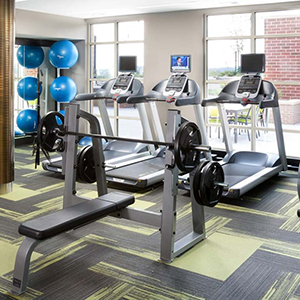
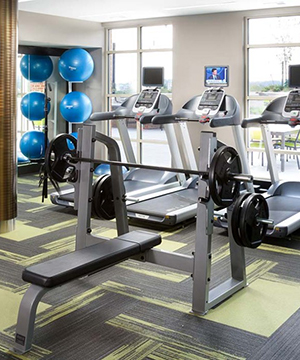
final

diff --git a/index.html b/index.html
@@ -1,5 +1,4 @@
 <!DOCTYPE html PUBLIC "-//W3C//DTD HTML 4.01 Transitional//EN" "http://www.w3.org/TR/html4/loose.dtd">
-<!-- saved from url=(0049)http://swiftpetworth.com/email/2br-sept-2016.html -->
 <html><head><meta http-equiv="Content-Type" content="text/html; charset=UTF-8">
 
 <title>Swift Petworth - email</title>
@@ -11,19 +10,17 @@
     <tbody>
     <tr> <!-- header -->
       <td align="left" valign="top">
-        <table width="600" border="0" cellspacing="0" cellpadding="0">
+        <table width="600" height="190" border="0" cellspacing="0" cellpadding="0">
           <tbody>
             <tr>
-              <td width="480" align="left" valign="bottom" bgcolor="#000000" style="margin:0; padding:0;">
-                <h1 style="font-family:Arial, Helvetica, sans-serif; color:#ffffff; margin:0; padding:0">Upgrade Your Lifestyle</h1><br>
-
-                <h2 style="font-family:Arial, Helvetica, sans-serif; color:#C5E86C; margin:0; padding:0">Stellar Amenities • Perfect Location</h2><br>
-
-                <h2 style="font-family:Arial, Helvetica, sans-serif; color:#C5E86C; margin:0; padding:0">Our Apartments are Leasing Swiftly</h2>
+              <td width="480" align="left" valign="bottom" bgcolor="#000000" style="margin:0; padding:20px;">
+                <font style="font-family:Arial, Helvetica, sans-serif; font-size:20px; color:#ffffff;"><h1 style="padding:0 0 0 0; margin:0 0 0 0;">Upgrade Your Lifestyle</h1></font><br>
+                <font style="font-family:Arial, Helvetica, sans-serif; font-size:20px; color:#C5E86C; padding:0 0 0 0; margin:0 0 0 0;">Stellar Amenities • Perfect Location</font><br>
+                <font style="font-family:Arial, Helvetica, sans-serif; font-size:20px; color:#C5E86C; padding-bottom:20px; margin:;">Our Apartments are Leasing Swiftly</font>
               </td> <!-- words -->
 
-              <td width="100" height="50" align="right" valign="top" style="padding:10px;">
-                <img src="logo.png" width="100" alt="" border="0">
+              <td width="100" height="190" align="right" valign="top" style="padding:10px;">
+                <a href="http://swiftpetworth.com/?utm_source=Prospect_List&amp;utm_medium=email&amp;utm_campaign=two_bedroom_$2900" target="_blank"><img src="logo.png" width="100" height="190" alt="" border="0"></a>
               </td> <!-- logo -->
 
             </tr>
@@ -31,13 +28,12 @@
         </table>
       </td>
     </tr> <!-- header -->
-
     <tr> <!-- 1st section-->
-        <td valign="top" width="600">
+        <td valign="top" width="600" height="360">
           <table align="right" border="0" cellpadding="0" cellspacing="0" width="300">
             <tr>
               <td align="left" valign="top">
-                <img src="kitchen.jpg" width="300" style="width:300px; height:320px;"/>
+                <img src="kitchen.jpg" width="300" style="width:300px; height:360px;"/>
               </td>
             </tr>
           </table>
@@ -45,12 +41,12 @@
           <!-- CONTENT TABLE // -->
           <table align="left" border="0" cellpadding="0" cellspacing="0" width="300">
             <tr>
-              <td valign="top" width="300">
+              <td valign="top" width="300" style="line-height: 120%;">
                 <h3 style="Margin:1em 1em 0; line-height: 120%;">Limited Time Offer on Select Apartments! Hurry, They Won’t Last Long</h3>
                 <ul style="font-size: 14px; font-family:Arial, Helvetica, sans-serif; Margin:.5em 1em 0; padding:0; color:#4D4D4D;">
-                    <li style="Margin:0 0 .5em; list-style:disc inside; mso-special-format:bullet;"><strong>Unit 423:</strong> Spacious 2 Bedroom, 2 Bath apartment with private balconies overlooking an inner courtyard. <strong>SPECIAL PRICE $2,775</strong></li>
-                    <li style="Margin:0 0 .5em; list-style:disc inside; mso-special-format:bullet;"><strong>Unit 407:</strong> Large Corner 2 Bedroom, 2 Bath apartment with floor to ceiling windows. <strong>LOW PRICE GUARANTEED $2,875</strong></li>
-                    <li style="Margin:0 0 .5em; list-style:disc inside; mso-special-format:bullet;"><strong>Unit 332:</strong> Spacious Corner 2 Bedroom 2 Bath apartment with amazing views of the city. <strong>LOWEST COST OF THE YEAR $2,925</strong></li>
+                    <li style="Margin:0; list-style:disc inside; mso-special-format:bullet;"><strong>Unit 423:</strong> Spacious 2 Bedroom, 2 Bath apartment with private balconies overlooking an inner courtyard. <strong>SPECIAL PRICE $2,775</strong></li>
+                    <li style="Margin:0; list-style:disc inside; mso-special-format:bullet;"><strong>Unit 407:</strong> Large Corner 2 Bedroom, 2 Bath apartment with floor to ceiling windows. <strong>LOW PRICE GUARANTEED $2,875</strong></li>
+                    <li style="Margin:0; list-style:disc inside; mso-special-format:bullet;"><strong>Unit 332:</strong> Spacious Corner 2 Bedroom 2 Bath apartment with amazing views of the city. <strong>LOWEST COST OF THE YEAR $2,925</strong></li>
                 </ul>
               </td>
             </tr>
@@ -67,7 +63,7 @@
                 <h3 style="Margin:0; padding-right:10px;">Don’t Miss Out On These Great Specials!</h3>
               </td>
               <td align="left" valign="top" width="425" style="font-size: 16px;">
-                The offers don’t stop there. We have more great offers if you move in during the month of October! <strong>Call <a href="tel:2028035047" style="text-decoration: none; color:#000000">202.803.5047</a> to learn more or <a href="http://swiftpetworth.com/contact/" style="color:#000000;">Schedule a Tour</a>. Ready to move, <a href="https://swiftpetworth.securecafe.com/onlineleasing/the-swift-at-petworth-metro/floorplans.aspx" style="color:#000000">apply now</a>!</strong>
+                The offers don’t stop there. We have more great offers if you move in during the month of October! <strong>Call <a href="tel:2028035047" target="_blank" style="text-decoration: none; color:#000000">202.803.5047</a> to learn more or <a href="http://swiftpetworth.com/contact/" target="_blank" style="color:#000000;">Schedule a Tour</a>. Ready to move, <a href="https://swiftpetworth.securecafe.com/onlineleasing/the-swift-at-petworth-metro/floorplans.aspx" target="_blank" style="color:#000000">apply now</a>!</strong>
               </td>
             </tr>
           </tbody>
@@ -76,26 +72,27 @@
     </tr> <!-- sub-header-message -->
 
     <tr> <!-- 2nd section-->
-        <td valign="top" width="600">
+        <td valign="top" width="600" height="360">
           <table align="left" border="0" cellpadding="0" cellspacing="0" width="300">
             <tr>
               <td align="left" valign="top">
-                <img src="gym.jpg" width="300" style="width:300px;height:300px;"/>
+                <img src="gym.jpg" width="300" style="width:300px;height:360px;"/>
               </td>
             </tr>
           </table>
           <table align="right" border="0" cellpadding="0" cellspacing="0" width="300">
             <tr>
-              <td valign="top" width="300">
+              <td valign="top" width="300" style="line-height: 120%;">
                 <h3 style="Margin:1em 1em 0; line-height: 120%;">Top Amenities</h3>
                 <ul style="font-size: 14px; font-family:Arial, Helvetica, sans-serif; Margin:.5em 1em 0; padding:0; color:#4D4D4D;">
-                    <li style="Margin:0 0 .5em; list-style:disc inside; mso-special-format:bullet;">Rooftop terrace with pool table, plenty of seating for gatherings, grilling stations, and firepit</li>
-                    <li style="Margin:0 0 .5em; list-style:disc inside; mso-special-format:bullet;">Electric car-charging stations, Zipcar® Parking, and Capital Bikeshare™</li>
-                    <li style="Margin:0 0 .5em; list-style:disc inside; mso-special-format:bullet;">Resident-controlled parking garage with bike racks</li>
-                    <li style="Margin:0 0 .5em; list-style:disc inside; mso-special-format:bullet;">Pet-friendly </li>
-                    <li style="Margin:0 0 .5em; list-style:disc inside; mso-special-format:bullet;">Fully-equipped gym with free weights</li>
-                    <li style="Margin:0 0 .5em; list-style:disc inside; mso-special-format:bullet;">Clubroom with demo kitchen, fireplace, pool table, foosball, and wi-fi</li>
-                    <li style="Margin:0 0 .5em; list-style:disc inside; mso-special-format:bullet;">Panoramic views of Washington, D.C.</li>
+                    <li style="Margin:0; list-style:disc inside; mso-special-format:bullet;">Rooftop terrace with pool table, plenty of seating for gatherings, grilling stations, and firepit</li>
+                    <li style="Margin:0; list-style:disc inside; mso-special-format:bullet;">24-hour on-site concierge service</li>
+                    <li style="Margin:0; list-style:disc inside; mso-special-format:bullet;">Electric car-charging stations, Zipcar<sup>®</sup> Parking, and Capital Bikeshare™</li>
+                    <li style="Margin:0; list-style:disc inside; mso-special-format:bullet;">Resident-controlled parking garage with bike racks</li>
+                    <li style="Margin:0; list-style:disc inside; mso-special-format:bullet;">Pet-friendly </li>
+                    <li style="Margin:0; list-style:disc inside; mso-special-format:bullet;">Fully-equipped gym with free weights</li>
+                    <li style="Margin:0; list-style:disc inside; mso-special-format:bullet;">Clubroom with demo kitchen, fireplace, pool table, foosball, and wi-fi</li>
+                    <li style="Margin:0; list-style:disc inside; mso-special-format:bullet;">Panoramic views of Washington, D.C.</li>
                 </ul>
               </td>
             </tr>
@@ -104,23 +101,23 @@
     </tr> <!-- 2nd section-->
 
     <tr> <!-- 3rd section-->
-        <td valign="top" width="600">
+        <td valign="top" width="600" height="360">
           <table align="right" border="0" cellpadding="0" cellspacing="0" width="300">
             <tr>
               <td align="left" valign="top">
-                <img src="fireplace.jpg" width="300" style="width:300px;height:300px;"/>
+                <img src="fireplace.jpg" width="300" style="width:300px;height:360px;"/>
               </td>
             </tr>
           </table>
           <table align="left" border="0" cellpadding="0" cellspacing="0" width="300">
             <tr>
-              <td valign="top" width="300">
+              <td valign="top" width="300" style="line-height: 120%;">
                 <h3 style="Margin:1em 1em 0; line-height: 120%;">It's the Place To Be</h3>
                 <ul style="font-size: 14px; font-family:Arial, Helvetica, sans-serif; Margin:.5em 1em 0; padding:0; color:#4D4D4D;">
-                    <li style="Margin:0 0 .5em; list-style:disc inside; mso-special-format:bullet;">Less than one block away from Georgia Ave-Petworth Metro station</li>
-                    <li style="Margin:0 0 .5em; list-style:disc inside; mso-special-format:bullet;">Moments from your doorstep, a zero carbon Safeway with Starbucks, expanded food bars, and large beer selection</li>
-                    <li style="Margin:0 0 .5em; list-style:disc inside; mso-special-format:bullet;">Nearby you will enjoy delicious dining and nightlife that includes Homestead, Qualia Coffee, and Room 11</li>
-                    <li style="Margin:0 0 .5em; list-style:disc inside; mso-special-format:bullet;">Enjoy a vibrant neighborhood with plenty of culture, restaurants, beautifully landscaped streets, and amazing views of downtown D.C. </li>
+                    <li style="Margin:0; list-style:disc inside; mso-special-format:bullet;">Less than one block away from Georgia Ave-Petworth Metro station</li>
+                    <li style="Margin:0; list-style:disc inside; mso-special-format:bullet;">Moments from your doorstep, a zero carbon Safeway with Starbucks, expanded food bars, and large beer selection</li>
+                    <li style="Margin:0; list-style:disc inside; mso-special-format:bullet;">Nearby you will enjoy delicious dining and nightlife that includes Homestead, Qualia Coffee, and Room 11</li>
+                    <li style="Margin:0; list-style:disc inside; mso-special-format:bullet;">Enjoy a vibrant neighborhood with plenty of culture, restaurants, beautifully landscaped streets, and amazing views of downtown D.C. </li>
                 </ul>
               </td>
             </tr>
@@ -132,7 +129,7 @@
       <td style="padding:15px 0;" align="center" valign="top" bgcolor="#000000"><table width="540" border="0" cellspacing="0" cellpadding="0">
           <tbody><tr>
             <td style="padding:3px 0 0 0;" width="500" align="left" valign="top"><font style="font-family:Arial, Helvetica, sans-serif; font-size:14px; color:#ffffff;">3828 Georgia Avenue, NW, Washington, DC 20011 | <a href="http://swiftpetworth.com/?utm_source=Prospect_List&amp;utm_medium=email&amp;utm_campaign=two_bedroom_$2900" style="text-decoration:none; color:#ffffff;" target="_blank"><strong>SwiftPetworth.com</strong></a></font></td>
-            <td width="65" align="right" valign="top"><a href="https://www.facebook.com/pages/The-Swift/546149645479894"><img src="footer.png" width="65" height="18" alt="" border="0"></a></td>
+            <td width="65" align="right" valign="top"><a href="https://www.facebook.com/pages/The-Swift/546149645479894" target="_blank"><img src="footer.png" width="65" height="18" alt="" border="0"></a></td>
           </tr>
         </tbody></table></td>
     </tr> <!-- footer -->
